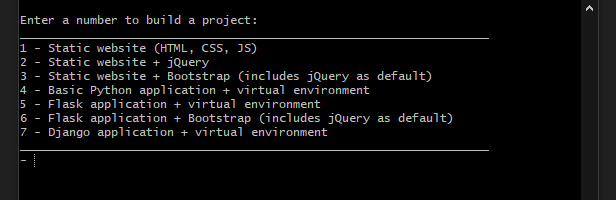
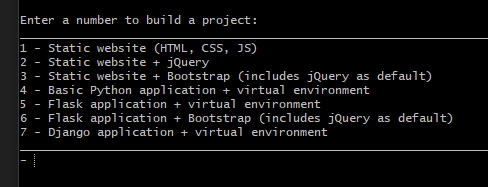
Add ReadMe and crop screenshots

Changed region(s): [[0.0307, 0.0, 1.0, 1.0]]

diff --git a/README.md b/README.md
@@ -1,0 +1,18 @@
+# Project Builder
+###### Bash script for the easy setup of new project environments
+
+I wrote this script to speed up the creation of new projects. I find it particularly useful when I want to quickly set up a new testing environment - either for blueprinting a fresh idea, or to experiment with something new I've learned.  
+
+![Image of script in action](screenshot.png)
+
+## Current Features:
+- [x] Set up basic static websites.
+- [x] Flask and Django projects.
+- [x] Allows the inclusion of Bootstrap or jQuery.
+- [x] Set up projects in a new virtual environment.
+
+I hope to expand it to include more JS environments, as well as other languages as I learn them.
+
+**Note: Built solely for my own use, so may not work in testing on other devices that haven't been configured accordingly.**
+
+![Image of script in action](screenshot2.png)
